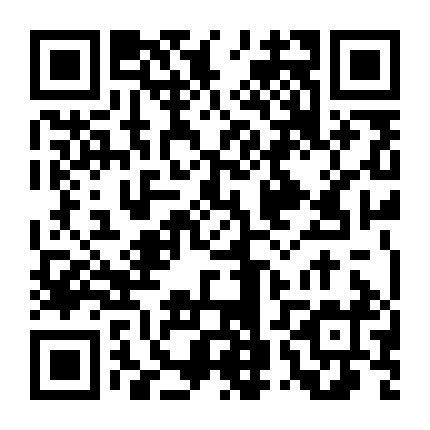
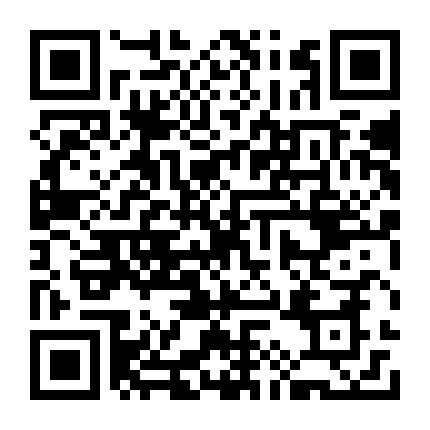
1

Changed region(s): [[0.0605, 0.0605, 0.9372, 0.9372]]

diff --git a/app/Http/Controllers/Weixin/WxController.php b/app/Http/Controllers/Weixin/WxController.php
@@ -20,10 +20,14 @@ class WxController extends Controller
         $data = file_get_contents("php://input");
 //        $log_str = date('Y-m-d H:i:s') . "\n" . $data . "\n<<<<<<<";
         $objxml = simplexml_load_string($data);
+        print_r($objxml);
         file_put_contents('logs/wx_event.log',$data,FILE_APPEND);
+        $redis = new \redis;
+        $redis->connect("127.0.0.1",6379);//exit;
+        $like = '';
 
     }
-    //接收事件
+/*    //接收事件
     public function jieshou(){
         $data = file_get_contents("php://input");
 
@@ -57,7 +61,7 @@ class WxController extends Controller
 
             exit();
         }
-    }
+    }*/
     /*获取accesstoken值*/
     public function accessToken(){
         $obj = new \url();
@@ -226,7 +230,7 @@ class WxController extends Controller
             "action_name" => "QR_SCENE",
             "action_info" => array(
                 "scene" =>array(
-                    "scene_id" => 123123,
+                    "scene_id" => 1111,
                 )
             )
         );
@@ -235,10 +239,10 @@ class WxController extends Controller
         $r = $obj->sendPost($url,$jsoninfo);
         $data = json_decode($r,true);
         $ticket = $data['ticket'];
-        print_r($ticket);
+        //print_r($ticket);
         $url2 = "https://mp.weixin.qq.com/cgi-bin/showqrcode?ticket=$ticket";
         $res = $obj->sendGet($url2);
-        file_put_contents("./111.jpg",$res);
+        file_put_contents("./1.jpg",$res);
         //print_r($res);
 
     }

diff --git a/routes/web.php b/routes/web.php
@@ -59,7 +59,7 @@ Route::any('wxlogincode','Weixin\WxController@wxlogincode'); //处理code
 Route::any('123','Weixin\WxController@tanchi'); //tanchi
 
 Route::any('showlogin','Weixin\WxController@showlogin'); //登录展示
-Route::any('QRcode','Weixin\WxController@QRcode'); //tanchi
+Route::any('QRcode','Weixin\WxController@QRcode'); //二维码
 
 
 
